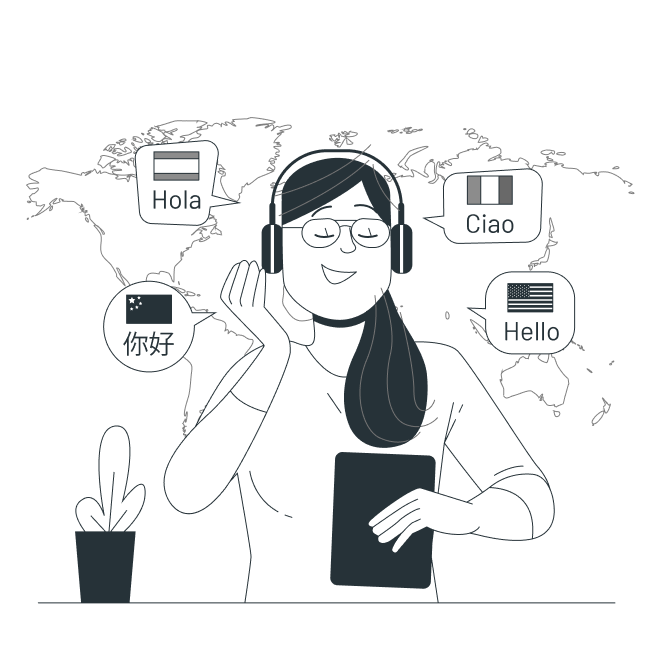
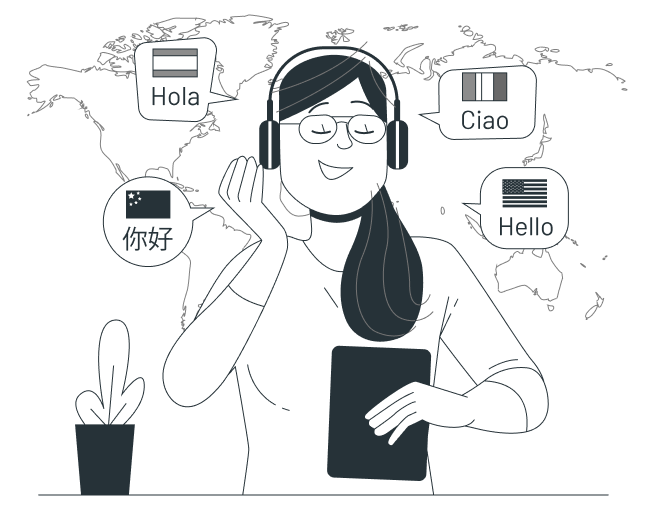
Практика.
Закінчив з розміткою Hero.

diff --git a/task_responsive_web_design/practise grid - 3 (Britlex Language School)/styles.css b/task_responsive_web_design/practise grid - 3 (Britlex Language School)/styles.css
@@ -491,24 +491,52 @@ html {
 /* content */
 .main {
   grid-area: main;
-
-  height: auto;
+  padding-top: 56px;
 }
 
 /* hero */
-.hero {}
+.hero {
+  position: relative;
+
+  width: 100%;
+  height: 608px;
+
+  display: grid;
+  grid-template: 280px 168px 1fr / 30% 10.5% 1fr;
+}
 
 .hero__header {
+  grid-column: 1 / 2;
+  grid-row: 1 / 2;
+
   font-weight: 600;
   font-size: 64px;
+  line-height: 1.25;
   color: var(--primary-logo);
 }
 
+.hero__lamp {
+  grid-column: 2 / 3;
+  grid-row: 1 / 2;
+
+  position: absolute;
+  top: 34%;
+  right: 0;
+  width: 80%;
+  height: auto;
+}
+
 .hero__text {
+  grid-column: 1 / 3;
+  grid-row: 2 / 3;
+
   font-size: 24px;
 }
 
 .tel__link.hero {
+  grid-column: 1 / 3;
+  grid-row: 3 / 4;
+
   width: 420px;
   height: 100px;
 
@@ -531,17 +559,25 @@ html {
 .tel__link.hero:focus {
   background-color: var(--body-bg);
   color: var(--primary-logo);
-  border: 2px solid var(--primary-logo);
+  border-color: var(--primary-logo);
 }
 
 .tel__link.hero:active {
   color: var(--bottoms-text);
   background-color: var(--secondary-logo);
   border-color: var(--secondary-logo);
-  border: 2px solid var(--secondary-logo);
 }
 
-.hero__girl {}
+.hero__girl {
+  grid-column: 3 / 4;
+  grid-row: 1 / 4;
+
+  position: absolute;
+  top: 0;
+  right: 0;
+  width: 84%;
+  height: auto;
+}
 
 /* skills */
 

diff --git a/task_responsive_web_design/practise grid - 3 (Britlex Language School)/index.html b/task_responsive_web_design/practise grid - 3 (Britlex Language School)/index.html
@@ -66,19 +66,19 @@
           class="hero__lamp"
           src="./images/light-bulb-svgrepo-com.png"
           alt="lamp"
-          width="84"
-          height="84" />
+          width="112"
+          height="112" />
         <p class="hero__text">
           With our teachers who write a program for each student, you will be
           able to make your first sketch after the first lesson.
         </p>
-        <a class="tel__link hero" href="tel:+380993649575">Let&#39;s Talk</a>
+        <a class="tel__link hero" href="tel:+380993649575">Get started</a>
         <img
           class="hero__girl"
           src="./images/learning-languages-bro.png"
           alt="А girl studying foreign languages"
           width="662"
-          height="662" />
+          height="512" />
       </section>
       <!-- skills  -->
 
